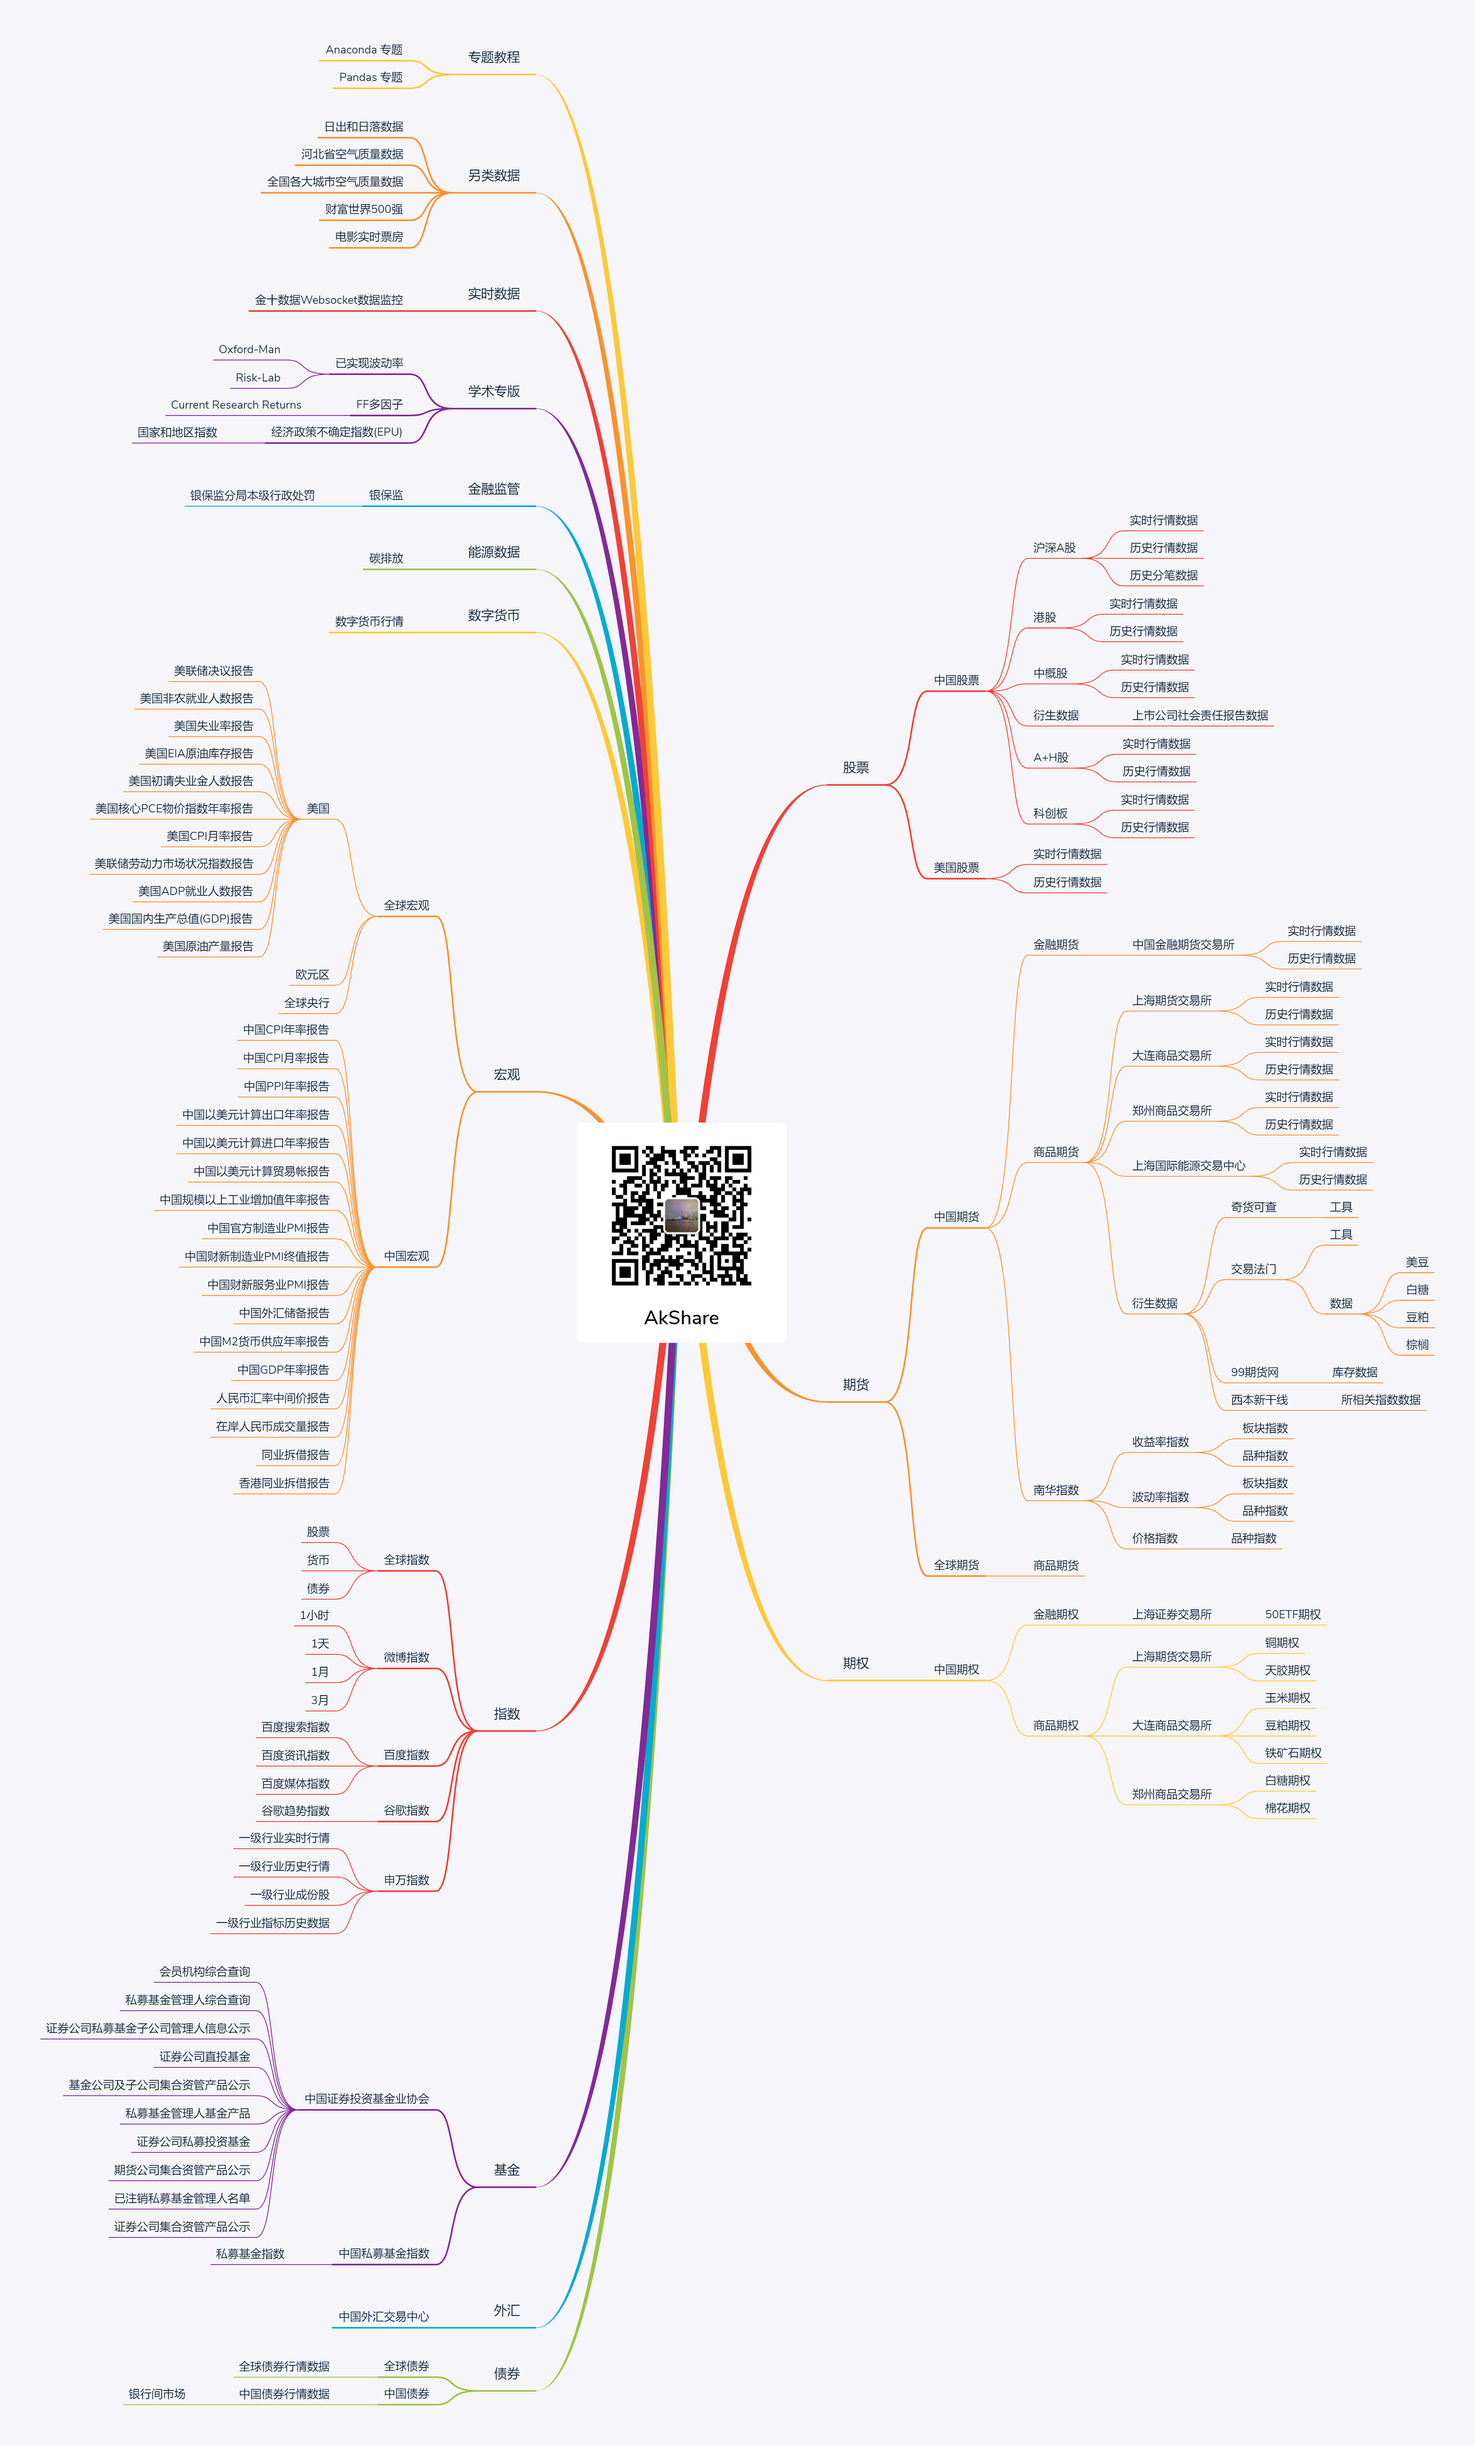
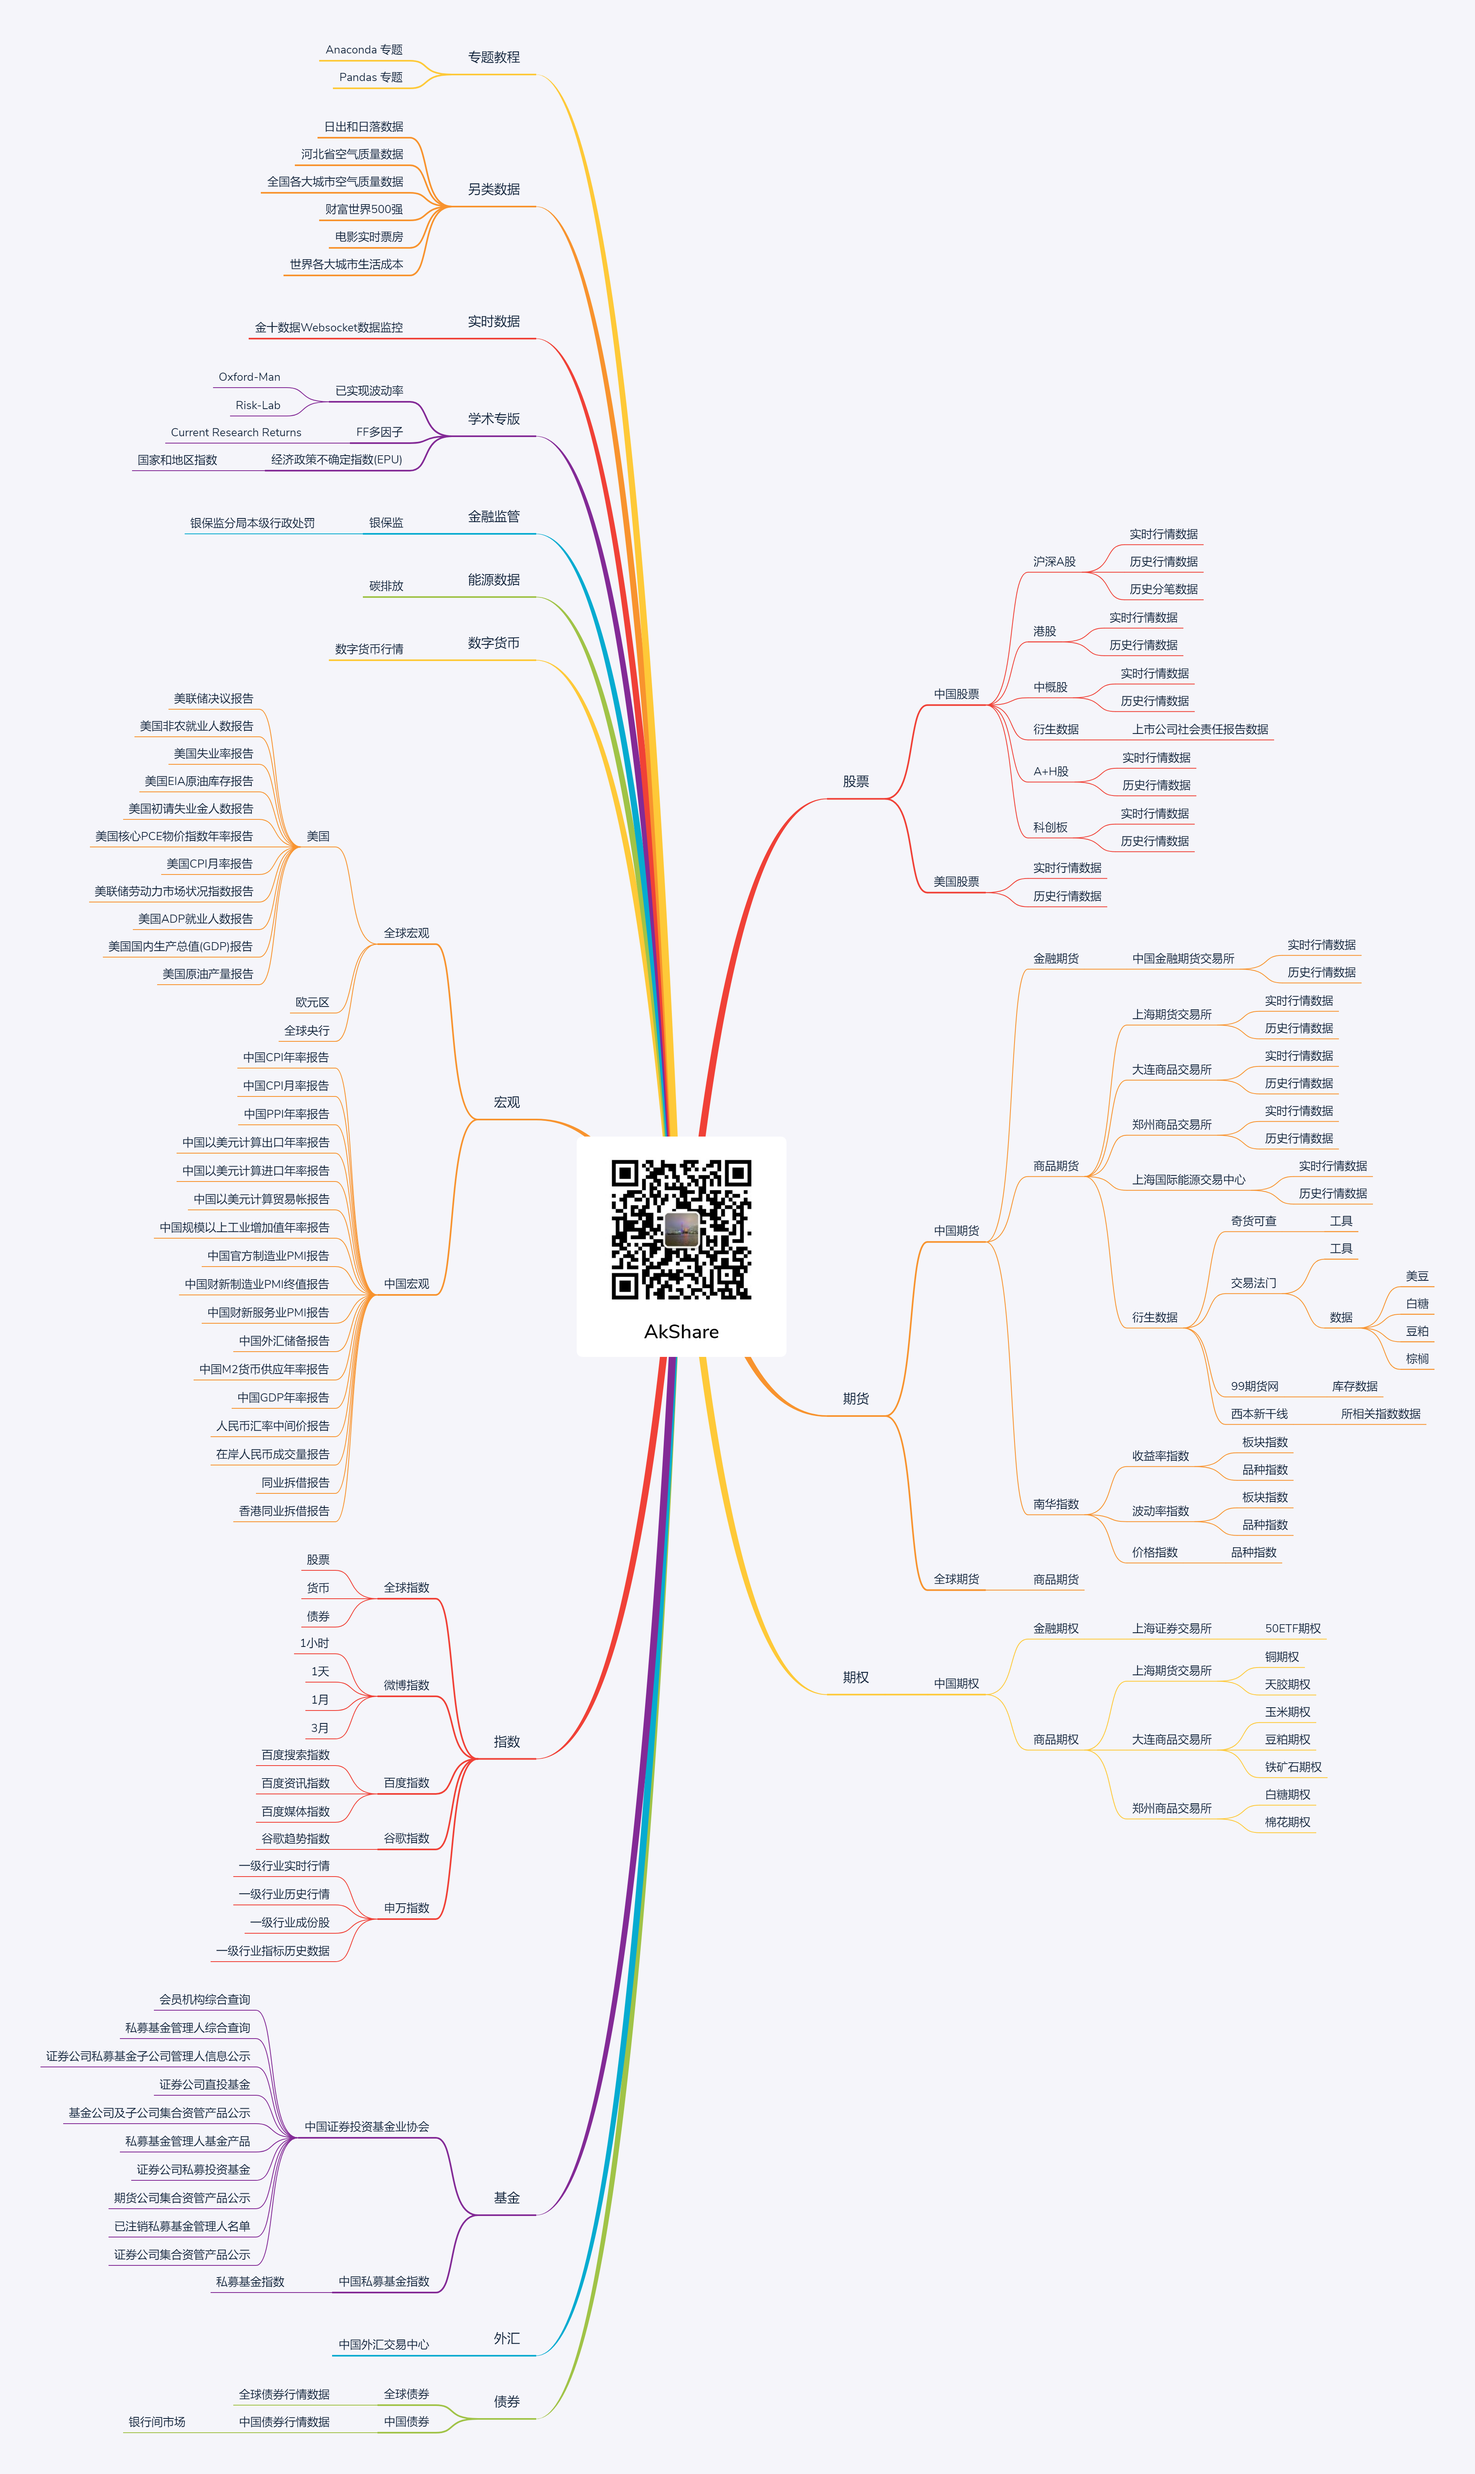
0.3.5 新增世界各大城市生活成本数据

diff --git a/akshare/cost/cost_living.py b/akshare/cost/cost_living.py
@@ -1,0 +1,48 @@
+# -*- coding:utf-8 -*-
+# /usr/bin/env python
+"""
+Author: Albert King
+date: 2019/12/18 12:32
+contact: jindaxiang@163.com
+desc: 获取世界各大城市生活成本数据
+https://expatistan.com/cost-of-living/index
+"""
+import requests
+import pandas as pd
+from bs4 import BeautifulSoup
+
+from akshare.cost.cons import url, name_url_map
+
+
+def _get_region():
+    """
+    获取主要板块, 一般不调用
+    :return: dict
+    """
+    res = requests.get(url)
+    soup = BeautifulSoup(res.text, "lxml")
+    half_url_list = [item["href"] for item in soup.find("ul", attrs={"class": "regions"}).find_all("a")]
+    name_list = [item["href"].split("/")[-1] for item in soup.find("ul", attrs={"class": "regions"}).find_all("a")]
+    name_url_dict = dict(zip(name_list, half_url_list))
+    name_url_dict["world"] = "/cost-of-living/index"
+    return name_url_dict
+
+
+def cost_living(region="world"):
+    """
+    获取国家或地区生活成本数据
+    https://expatistan.com/cost-of-living/index
+    :param region: str ["europe", "north-america", "latin-america", "asia", "middle-east", "africa", "oceania", "world"]
+    :return: pandas.DataFrame
+    """
+    object_url = f"https://www.expatistan.com{name_url_map[region]}"
+    res = requests.get(object_url)
+    temp_df = pd.read_html(res.text)[0]
+    temp_df.columns = ["rank", "city", "index"]
+    return temp_df
+
+
+if __name__ == '__main__':
+    cost_df = cost_living()
+    print(cost_df)
+

diff --git a/akshare/cost/cons.py b/akshare/cost/cons.py
@@ -1,0 +1,19 @@
+# -*- coding:utf-8 -*-
+# /usr/bin/env python
+"""
+Author: Albert King
+date: 2019/12/18 12:50
+contact: jindaxiang@163.com
+desc: cost配置文件
+"""
+url = "https://www.expatistan.com/cost-of-living/index"
+name_url_map = {
+    "europe": "/cost-of-living/index/europe",
+    "north-america": "/cost-of-living/index/north-america",
+    "latin-america": "/cost-of-living/index/latin-america",
+    "asia": "/cost-of-living/index/asia",
+    "middle-east": "/cost-of-living/index/middle-east",
+    "africa": "/cost-of-living/index/africa",
+    "oceania": "/cost-of-living/index/oceania",
+    "world": "/cost-of-living/index",
+}

diff --git a/akshare/__init__.py b/akshare/__init__.py
@@ -443,10 +443,17 @@ pypinyin 降级
 更新外盘期货行情订阅时, 统一字段名称与网页端一致
 0.3.4
 新增能源-碳排放权数据
+0.3.5
+新增世界各大城市生活成本数据
 """
 
-__version__ = "0.3.4"
+__version__ = "0.3.5"
 __author__ = "Albert King"
+
+"""
+成本-世界各大城市生活成本
+"""
+from akshare.cost.cost_living import cost_living
 
 """
 能约-碳排放权

diff --git a/akshare/cost/__init__.py b/akshare/cost/__init__.py
@@ -1,0 +1,8 @@
+# -*- coding:utf-8 -*-
+# /usr/bin/env python
+"""
+Author: Albert King
+date: 2019/12/18 12:32
+contact: jindaxiang@163.com
+desc: 
+"""

diff --git a/docs/source/data/others/others.md b/docs/source/data/others/others.md
@@ -589,3 +589,65 @@ print(movie_df)
 8  总票房:1171.0万  
 9    总票房:1.92亿  
 ```
+
+### 生活成本
+
+接口: cost_living
+
+目标地址: https://expatistan.com/cost-of-living/index
+
+描述: 获取世界各大城市生活成本数据
+
+限量: 返回当前时点所有数据
+
+输入参数
+
+| 名称   | 类型 | 必选 | 描述                                                                              |
+| -------- | ---- | ---- | --- |
+| region     | str   | -        | region="world", 默认, 返回所有城市数据, 其他城市请查看 **城市一览表**  |  
+
+城市一览表
+
+| 名称   | 类型 |   
+| -------- | ---- |
+| europe | 欧洲  |
+| north-america | 北美洲  |
+| latin-america | 拉丁美洲  |
+| asia | 亚洲  |
+| middle-east | 中东  |
+| africa | 非洲  |
+| oceania | 大洋洲  |
+| world | 默认全球所有城市  |
+
+输出参数
+
+| 名称          | 类型 | 默认显示 | 描述           |
+| --------------- | ----- | -------- | ---------------- |
+| rank     | str   | -        | 排名  |  
+| city     | str   | -        | 城市名称 |  
+| index    | str   | -        | 价格指数  |  
+
+接口示例
+
+```python
+import akshare as ak
+cost_df = ak.cost_living()
+print(cost_df)
+```
+
+数据示例
+
+```
+      rank                                       city  index
+0      1st              Grand Cayman (Cayman Islands)    271
+1      2nd  Mountain View, California (United States)    259
+2      3rd      Palo Alto, California (United States)    259
+3      4th              New York City (United States)    253
+4      5th                       Zurich (Switzerland)    246
+..     ...                                        ...    ...
+295  296th                             Indore (India)     62
+296  297th                             Madras (India)     62
+297  298th                        Córdoba (Argentina)     58
+298  299th                        Rosario (Argentina)     56
+299  300th                        Mendoza (Argentina)     48
+```

diff --git a/docs/source/akshare/ak-introduction.md b/docs/source/akshare/ak-introduction.md
@@ -1,6 +1,6 @@
 # [AkShare](https://github.com/jindaxiang/akshare) 概览
 
-(本文档更新于 **2019-12-17**; 如发现库和文档相关问题, 请联系 [AkShare](https://github.com/jindaxiang/akshare) 的作者 **Albert King**: jindaxiang@163.com)
+(本文档更新于 **2019-12-18**; 如发现库和文档相关问题, 请联系 [AkShare](https://github.com/jindaxiang/akshare) 的作者 **Albert King**: jindaxiang@163.com)
 
 您也可以加入QQ群答疑解难: 326900231
 
@@ -134,7 +134,9 @@
     
     6.42 增加[猫眼电影](https://maoyan.com/board/1)提供的实时票房数据;
     
-    6.43 增加[北京市碳排放权电子交易平台](https://www.bjets.com.cn/article/jyxx/)提供的碳排放行情数据.
+    6.43 增加[北京市碳排放权电子交易平台](https://www.bjets.com.cn/article/jyxx/)提供的碳排放行情数据;
+    
+    6.44 新增[Expatistan网站](https://www.expatistan.com/cost-of-living)提供的世界各大城市生活成本数据;
 
 7. 提供完善的接口文档, 提高 [AkShare](https://github.com/jindaxiang/akshare) 的易用性;
 8. 希望您能参与 [AkShare GitHub](https://github.com/jindaxiang/akshare) 的维护与管理.

diff --git a/README.md b/README.md
@@ -133,6 +133,8 @@ pip install akshare --upgrade
 
 感谢[猫眼电影网站](https://maoyan.com/board/1)提供的实时票房数据;
 
+感谢[Expatistan网站](https://www.expatistan.com/cost-of-living)提供的世界各大城市生活成本数据;
+
 感谢[北京市碳排放权电子交易平台](https://www.bjets.com.cn/article/jyxx/)提供的碳排放行情数据;
 
 感谢[微信公众号: Python大咖谈](https://upload-images.jianshu.io/upload_images/3240514-61004f2c71be4a0b.png)提供的 Pandas 教程.

diff --git a/docs/source/akshare/ak-special.md b/docs/source/akshare/ak-special.md
@@ -68,6 +68,8 @@
 
 感谢[猫眼电影](https://maoyan.com/board/1)提供的实时票房数据;
 
+感谢[Expatistan网站](https://www.expatistan.com/cost-of-living)提供的世界各大城市生活成本数据;
+
 感谢[北京市碳排放权电子交易平台](https://www.bjets.com.cn/article/jyxx/)提供的碳排放行情数据.
 
 ## 交流

diff --git a/docs/source/akshare/ak-tutorial.md b/docs/source/akshare/ak-tutorial.md
@@ -200,6 +200,8 @@
  "energy_carbon"  # 北京市碳排放权电子交易平台-北京市碳排放权公开交易行情
  # 电影-实时票房
  "movie_board"  # 获取上映影片实时票房数据
+ # 生活成本
+ "cost_living"  # 获取世界各大城市生活成本数据
 ```
 
 ## 3. 案例演示

diff --git a/docs/source/akshare/ak-changelog.md b/docs/source/akshare/ak-changelog.md
@@ -594,4 +594,7 @@ pypinyin 降级
 
 0.3.4
 新增能源-碳排放权数据
+
+0.3.5
+新增世界各大城市生活成本数据
 ```
